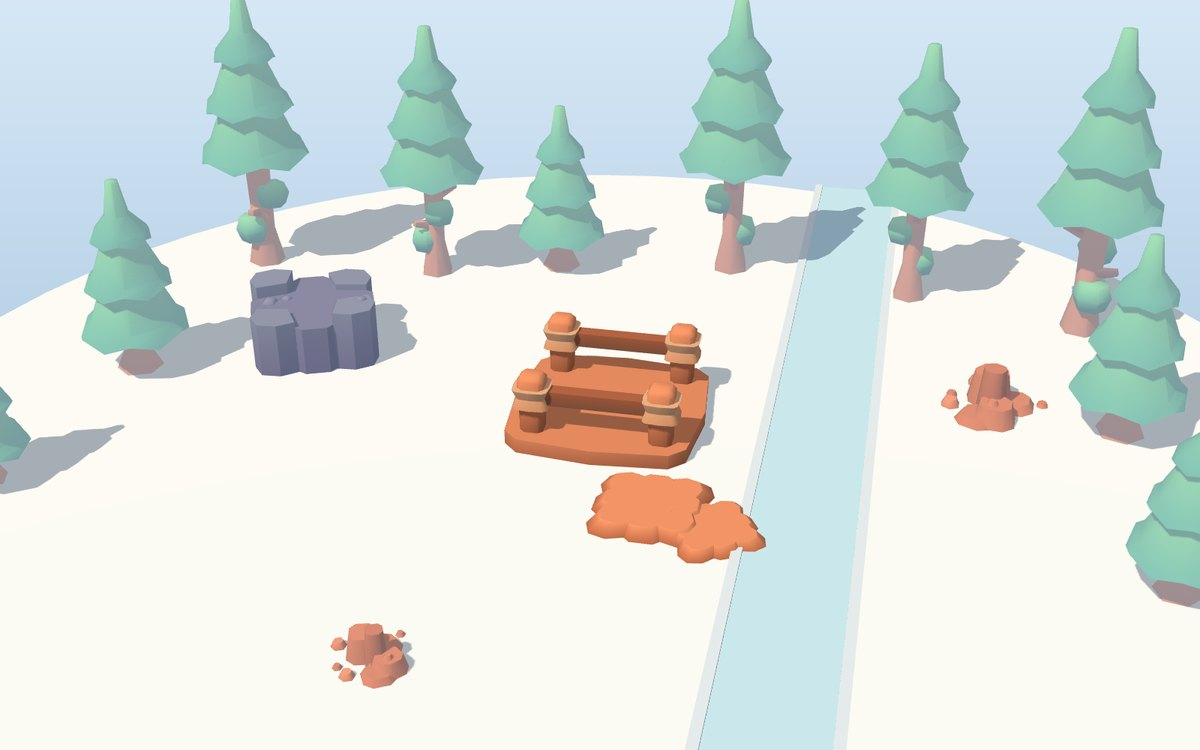
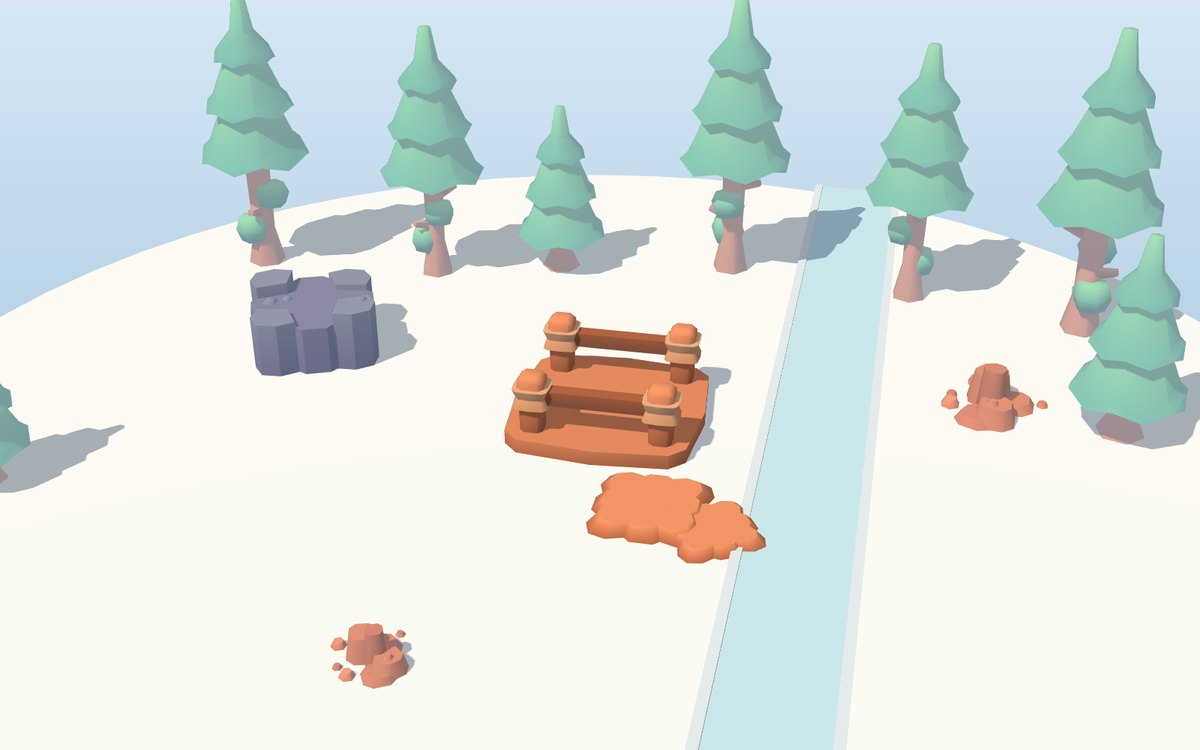
Лесная почта: 12 новых построек для глав 4–6
Зима: снеговик, фонари, каток, новогодняя ёлка. Ярмарка:
прилавок, качели, гирлянда флажков, воздушный шар. Большая
доставка: указатель, лесной стражник, почтовая лодка, дирижабль.
Постройки собраны в 3D из простых форм и отрендерены слоями во
всех сезонах. Окно ремонта разбито по главам, постройки новой
главы открываются, когда игрок до неё дошёл.

Claude-Session: https://claude.ai/code/session_01AAVygAdTwogyZkoeBq21Nh

diff --git a/pochta/index.html b/pochta/index.html
@@ -350,6 +350,8 @@ h1,h2{font-family:var(--display);font-weight:900;letter-spacing:.01em}
 .playrow .rbtn .lbl{color:#fff}
 .rthumb{height:84px;width:100%;display:flex;align-items:center;justify-content:center;background:linear-gradient(#e6f4ff,#f6fbf2);border-radius:12px}
 .rthumb img{max-width:90%;max-height:78px;object-fit:contain}
+.sitem.locked .rthumb img{filter:grayscale(1) opacity(.35)}
+.sitem.locked .sd .ico2{display:inline-block;width:14px;height:14px;vertical-align:-2px;filter:brightness(.3)}
 .setrow{display:flex;align-items:center;justify-content:space-between;gap:12px;font:700 18px var(--display);color:var(--ink);padding:4px 0}
 .tog{width:64px;height:36px;border-radius:999px;background:#c9d3df;position:relative;border:0;cursor:pointer;transition:background .2s;flex:none}
 .tog i{position:absolute;top:4px;left:4px;width:28px;height:28px;border-radius:50%;background:#fff;box-shadow:0 2px 0 #0002;transition:left .2s}
@@ -781,8 +783,8 @@ const petImg=(p,cls='')=>`<img class="${cls}" src="${petSrc(p)}" alt="" draggabl
 // места жителей на диораме (посчитаны из 3D-сцены): x, низ y, высота в процентах кадра
 const SLOTS=[[33.58, 66.6, 8.15], [24.44, 62.43, 7.97], [13.09, 61.72, 7.94], [38.04, 77.19, 8.59], [24.8, 74.47, 8.48], [11.02, 73.9, 8.46], [76.32, 78.04, 8.62], [86.99, 74.69, 8.49], [77.25, 91.72, 9.12], [47.9, 86.71, 8.95], [90.33, 89.24, 9.04], [30.73, 88.29, 9], [15.45, 84.85, 8.88], [54.42, 93.63, 9.19], null, [74.8, 58.58, 7.8], [74.15, 51.5, 7.46], [43.5, 70.55, 8.32], [56.35, 82.18, 8.78], [6.15, 88.27, 9], [75.66, 101.42, 9.43], [92.63, 102.24, 9.46], [37.96, 94.97, 9.23], [21.31, 92.56, 9.15]];
 const HERO_SLOT=[56.53, 74.16, 9.58];
-const LAYERS={"walls": [42.75, 23.4, 24.19], "roof": [40.25, 2.5, 32.25], "ladder": [45.94, 51.4, 7.38], "flag": [54.56, 34.8, 13.56], "fence": [11.88, 44.9, 27.81], "plants": [18.69, 43.0, 15.75], "tent": [73.06, 42.3, 21.81], "bridge": [60.25, 55.9, 16.0], "lookout": [20.44, 8.2, 21.12], "store": [72.75, 30.3, 17.19], "bridge2": [56.19, 78.3, 19.31], "garden": [31.13, 38.4, 14.75], "pines": [8.0, 28.2, 9.12]};
-const DRAW_ORDER=['lookout','store','garden','pines','walls','roof','flag','ladder','fence','plants','tent','bridge','bridge2'];
+const LAYERS={"walls": [42.75, 23.4, 24.19], "roof": [40.25, 2.5, 32.25], "ladder": [45.94, 51.4, 7.38], "flag": [54.56, 34.8, 13.56], "fence": [11.88, 44.9, 27.81], "plants": [18.69, 43.2, 15.81], "tent": [73.06, 42.3, 21.81], "bridge": [60.25, 55.9, 16.0], "lookout": [20.44, 8.2, 21.12], "store": [72.75, 30.3, 17.19], "bridge2": [56.19, 78.3, 19.31], "garden": [31.13, 38.4, 14.75], "pines": [7.81, 28.2, 92.19], "snowman": [0.88, 47.4, 15.88], "xmastree": [59.31, 13.4, 14.31], "skating": [60.5, 66.4, 13.5], "lanterns": [37.38, 43.0, 28.75], "stall": [3.69, 33.5, 17.69], "swing": [86.62, 52.4, 13.38], "balloon": [28.38, 3.1, 21.88], "bunting": [57.81, 29.6, 29.12], "archer": [46.56, 52.4, 5.88], "boat": [66.94, 36.7, 7.19], "airship": [73.44, 8.1, 20.0], "signpost": [72.12, 49.7, 11.88]};
+const DRAW_ORDER=['balloon','airship','lookout','store','xmastree','garden','boat','pines','walls','roof','flag','stall','bunting','archer','signpost','lanterns','ladder','fence','plants','tent','bridge','swing','skating','snowman','bridge2'];
 const petW=h=>h*1.35*750/1200; // ширина в % от ширины сцены
 function petsLayer(){
   const out=LEVELS.map((L,i)=>{if(!L.pet||!P.stars[i]||!SLOTS[i])return '';const [x,y,h]=SLOTS[i];
@@ -807,6 +809,18 @@ const ITEMS=[
  {id:'bridge2',name:'Второй мост',cost:7,ch:2},
  {id:'store',name:'Склад посылок',cost:7,ch:2},
  {id:'lookout',name:'Смотровая скала',cost:8,ch:2},
+ {id:'snowman',name:'Снеговик',cost:10,ch:4},
+ {id:'lanterns',name:'Фонари у почты',cost:10,ch:4},
+ {id:'skating',name:'Каток на ручье',cost:12,ch:4},
+ {id:'xmastree',name:'Новогодняя ёлка',cost:12,ch:4},
+ {id:'stall',name:'Ярмарочный прилавок',cost:12,ch:5},
+ {id:'swing',name:'Качели',cost:12,ch:5},
+ {id:'bunting',name:'Гирлянда флажков',cost:14,ch:5},
+ {id:'balloon',name:'Воздушный шар',cost:14,ch:5},
+ {id:'signpost',name:'Указатель «Почта»',cost:15,ch:6},
+ {id:'archer',name:'Лесной стражник',cost:15,ch:6},
+ {id:'boat',name:'Почтовая лодка',cost:16,ch:6},
+ {id:'airship',name:'Дирижабль почты',cost:18,ch:6},
 ];
 let P={stars:Array(LEVELS.length).fill(0),built:[],hammers:3,shuffles:2,coins:150,inv:{},owned:['tisha:classic','frame:classic'],tisha:'classic',frame:'classic'};
 function load(){try{const d=JSON.parse(localStorage.getItem('lesnaya-pochta-v1'));if(d&&Array.isArray(d.stars)){P={...P,...d};P.built=(P.built||[]).filter(id=>ITEMS.some(i=>i.id===id));if(P.muted){P.musicOff=P.sfxOff=true;delete P.muted}while(P.stars.length<LEVELS.length)P.stars.push(0)}}catch(e){}}
@@ -825,7 +839,7 @@ function sceneSVG(){
 function renderHome(){
   reveal();$('level').hidden=true;$('map').hidden=true;$('home').hidden=false;closeOv();playMusic('home');try{scrollTo(0,0)}catch(e){}
   const avail=Math.max(0,totalStars()-spent()),nl=nextLevel(),done=P.stars.every(Boolean),NL=LEVELS[nl];
-  const canBuild=ITEMS.filter(it=>!P.built.includes(it.id)&&(!it.req||P.built.includes(it.req))&&it.cost<=avail).length;
+  const canBuild=ITEMS.filter(it=>itemOpen(it)&&!P.built.includes(it.id)&&(!it.req||P.built.includes(it.req))&&it.cost<=avail).length;
   const st=dailyState();
   $('home').innerHTML=`<div class="hm">
     <div class="topbar">
@@ -861,12 +875,15 @@ function renderHome(){
 }
 
 /* ---------- окно ремонта ---------- */
+const ITEM_GROUPS=[{title:'Почта',ch:1},{title:'Лето у ручья',ch:2},{title:'Зима',ch:4},{title:'Весенняя ярмарка',ch:5},{title:'Большая доставка',ch:6}];
+const itemCh=it=>it.ch||1;
+function itemOpen(it){const ch=itemCh(it);if(ch<=2)return true;const from=CHAPTERS[ch-1].from;return P.stars.slice(from-1).some(Boolean)}
 function showRepair(){
   const avail=Math.max(0,totalStars()-spent());
   $('card').innerHTML=`<div class="to">Ремонт почты</div><div class="shophead"><h2>${bi('house')} Стройка у почты</h2><span class="wallet">${STAR_IMG} <b>${avail}</b></span></div>
     <p class="note">Звёзды за доставленные письма тратятся на постройки. Каждая сразу появляется у почты.</p>
-    <div class="shopbody"><div class="sgrid">${ITEMS.map(it=>{const b=P.built.includes(it.id),lockReq=it.req&&!P.built.includes(it.req);
-      return `<div class="sitem${b?' on':''}"><div class="rthumb"><img src="${layerSrc(it.id)}" alt=""></div><b>${it.name}</b>${b?'<span class="ddone">✓ Построено</span>':lockReq?`<span class="sd">Сначала: ${ITEMS.find(x=>x.id===it.req).name.toLowerCase()}</span>`:`<button class="btn buy" data-build="${it.id}" ${avail<it.cost?'disabled':''}>${STAR_IMG} ${it.cost}</button>`}</div>`}).join('')}</div></div>
+    <div class="shopbody">${ITEM_GROUPS.map(G=>{const list=ITEMS.filter(it=>(itemCh(it)===G.ch)||(G.ch===1&&!it.ch));if(!list.length)return '';const open=itemOpen(list[0]);return `<div class="chap">${G.title}${open?'':' · откроется в главе '+G.ch}</div><div class="sgrid">${list.map(it=>{if(!open)return `<div class="sitem locked"><div class="rthumb"><img src="${layerSrc(it.id)}" alt=""></div><b>${it.name}</b><span class="sd">${ICO('locked')} Глава ${G.ch}</span></div>`;const b=P.built.includes(it.id),lockReq=it.req&&!P.built.includes(it.req);
+      return `<div class="sitem${b?' on':''}"><div class="rthumb"><img src="${layerSrc(it.id)}" alt=""></div><b>${it.name}</b>${b?'<span class="ddone">✓ Построено</span>':lockReq?`<span class="sd">Сначала: ${ITEMS.find(x=>x.id===it.req).name.toLowerCase()}</span>`:`<button class="btn buy" data-build="${it.id}" ${avail<it.cost?'disabled':''}>${STAR_IMG} ${it.cost}</button>`}</div>`}).join('')}</div>`}).join('')}</div>
     <div class="row"><button class="btn main" id="bRepClose">Закрыть</button></div>`;
   $('card').classList.add('wide');openOv();
   $('bRepClose').onclick=()=>{$('card').classList.remove('wide');closeOv()};
